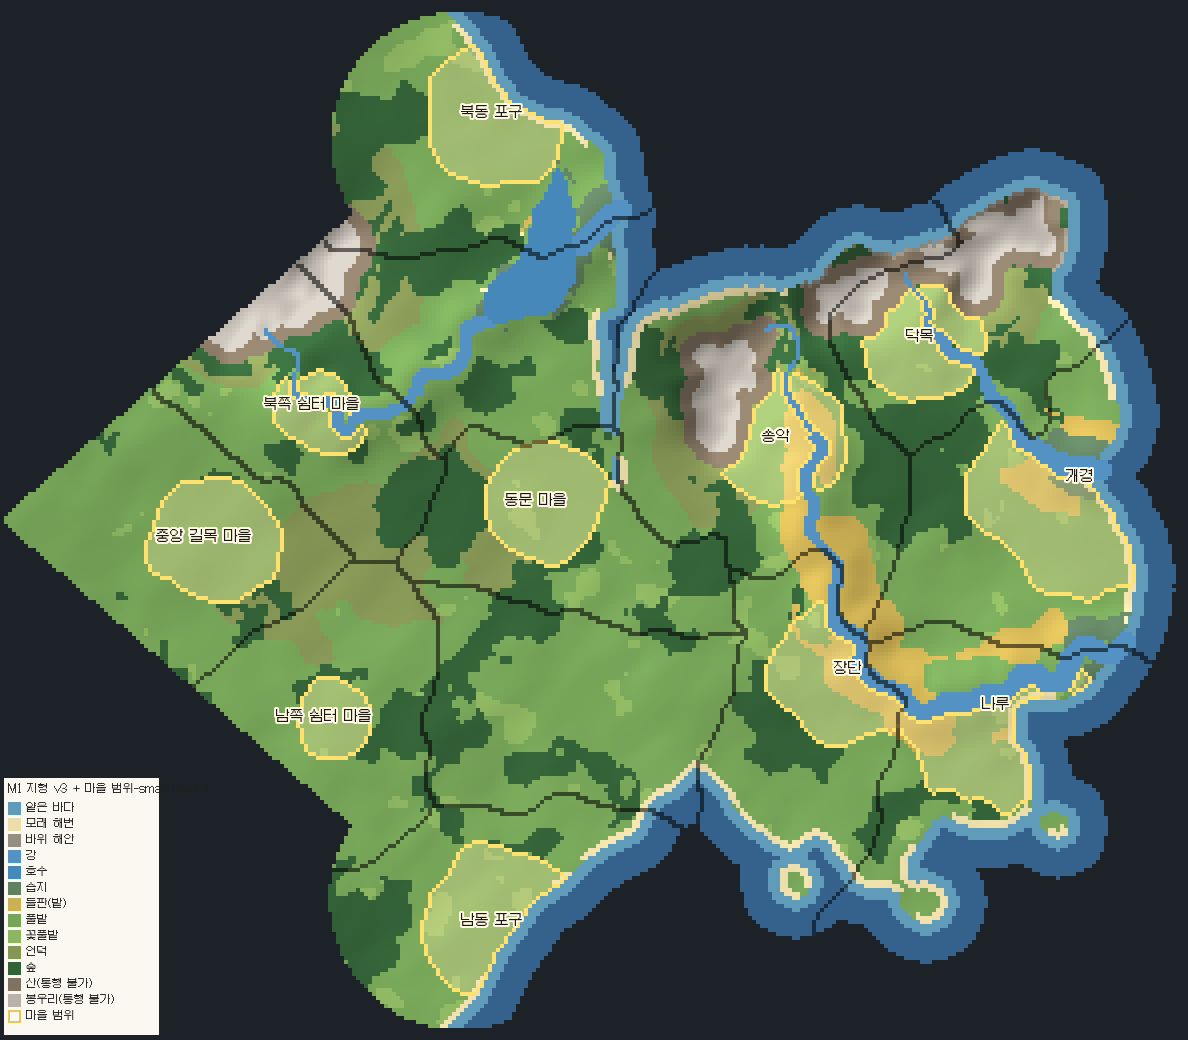
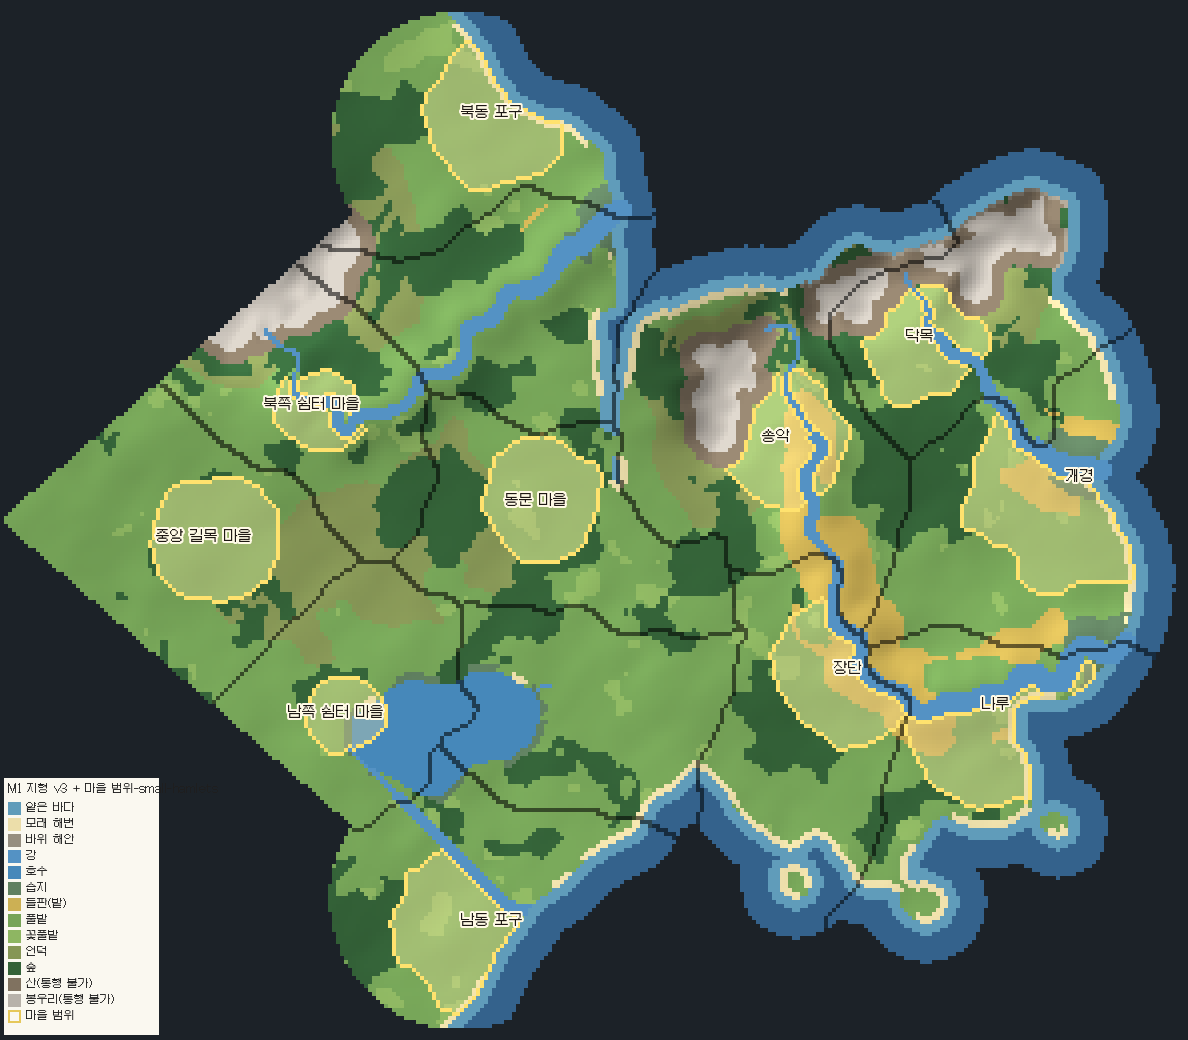
M1 v4: large southern lake with bays, inflow stream and outlet to the sea
Claude-Session: https://claude.ai/code/session_01LeGdCGGAkPbpRa1d2kF6Yd

diff --git a/Tools/WorldLayout/terrain_v3.py b/Tools/WorldLayout/terrain_v3.py
@@ -31,7 +31,7 @@ COLORS={DEEP:(52,98,140),SHALLOW:(96,156,186),SAND:(236,222,170),ROCKCOAST:(150,
         FOREST:(52,98,56),MOUNTAIN:(128,114,96),PEAK:(184,178,170),VILLAGE:(210,190,140),VOID:(28,34,40),LAKE:(70,136,186)}
 BLOCKED={DEEP,SHALLOW,RIVER,MOUNTAIN,PEAK,ROCKCOAST,LAKE}
 # 호수(세계 좌표 중심, 대략 면적): 남쪽 쉼터 마을 북쪽(2026-10-27 은샘 제안)
-LAKES=[dict(label='중앙 호수',area=480)]   # 위치는 지형에서 고른다(가장 낮은 분지)
+LAKES=[dict(label='남쪽 큰 호수',area=950,box=(95,22,150,72))]   # 이 범위(x0,y0,x1,y1) 안에서 가장 낮은 내륙 분지를 고른다
 # 마을 목표 면적(칸): 수도는 크게, 중앙 마을은 장터 광장·이벤트 마당·시설이 들어갈 만큼(WorldLayout 3절 약 2,060)
 VILLAGE_AREA={'goryeo/개경':1100,'goryeo/장단':700,'goryeo/나루':700,'goryeo/송악':650,'goryeo/닥목':600,
               'east/동문 마을':1400,'east/북동 포구':1400,'east/남동 포구':1400,'east/중앙 길목 마을':1500}
@@ -220,39 +220,60 @@ def build(layout):
         my,mx=idx(*ri['mouth']);yy,xx=np.ogrid[:H,:W];mouth_zone|=((yy-my)**2+(xx-mx)**2)<16**2
     t[L&mouth_zone&(d_river<=5)&(d_river>0)&(elev<.35)&(marsh_n>.45)]=MARSH
     t[river]=RIVER
-    # 호수: 중앙 동쪽에서 가장 낮은 분지를 찾아, 낮은 땅부터 물을 채우듯 넓힌다(호숫가가 등고선을 따름).
-    #       강과 떨어져 있으면 가장 낮은 물가에서 강까지 작은 개울로 흘려보낸다.
+    # 호수: 중앙 동쪽 남부에서 가장 낮은 내륙 분지를 찾아, 낮은 땅부터 물을 채우듯 넓힌다(호숫가가 등고선을 따름).
+    #       둘레 언덕에서 흘러드는 개울 하나, 가장 낮은 물가에서 바다로 빠지는 개울 하나를 만든다.
     lake=np.zeros((H,W),bool);E=ndimage.gaussian_filter(elev,3)
     east=np.zeros((H,W),bool)
     for i,k in enumerate(keys):
         if k.startswith('east/'):east|=mapid==i
     yy_,xx_=np.ogrid[:H,:W];far=np.ones((H,W),bool)
     for town in layout.data['towns']:
-        ty,tx=idx(int(town['position'][0]),int(town['position'][1]));far&=((yy_-ty)**2+(xx_-tx)**2)>24**2
+        ty,tx=idx(int(town['position'][0]),int(town['position'][1]));far&=((yy_-ty)**2+(xx_-tx)**2)>22**2
     inner=ndimage.binary_erosion(east,iterations=6)   # 담당 경계에 잘린 직선 호숫가가 생기지 않게
-    ok=inner&land&far&(to_sea>16)&(d_river>3)&~np.isin(t,[MOUNTAIN,PEAK])
     for lk in LAKES:
-        seed=np.unravel_index(int(np.argmin(np.where(ok,E,np.inf))),E.shape)
-        grow=inner&land&far&(to_sea>10)&~np.isin(t,[MOUNTAIN,PEAK])
-        got={seed};q=[(E[seed],seed)];seen={seed}
-        while q and len(got)<lk['area']:
-            _,pp=heapq.heappop(q);got.add(pp)
-            for dy,dx in ((1,0),(-1,0),(0,1),(0,-1)):
-                n=(pp[0]+dy,pp[1]+dx)
-                if n in seen or not(0<=n[0]<H and 0<=n[1]<W) or not grow[n]:continue
-                seen.add(n);heapq.heappush(q,(E[n]+.02*(marsh_n[n]-.5),n))
-        m=np.zeros((H,W),bool)
-        for pp in got:m[pp]=True
-        m=ndimage.binary_closing(ndimage.binary_opening(m),iterations=2)&grow
+        bx0,by0,bx1,by1=lk['box'];south=((xx_+X0)>=bx0)&((xx_+X0)<bx1)&((yy_+Y0)>=by0)&((yy_+Y0)<by1)
+        # 범위 안쪽(가장자리에서 10칸 이상)에서 가장 낮은 곳을 중심으로
+        core=south&inner&land&far&(to_sea>14)&(d_river>6)&~np.isin(t,[MOUNTAIN,PEAK])
+        core&=((xx_+X0)>=bx0+10)&((xx_+X0)<bx1-10)&((yy_+Y0)>=by0+10)&((yy_+Y0)<by1-10)
+        seed=np.unravel_index(int(np.argmin(np.where(core,E,np.inf))),E.shape)
+        # 모양: 길쭉한 타원에 만·곶을 만드는 굴곡(각도에 따른 낮은 주파수 사인 합)
+        r0=math.sqrt(lk['area']/math.pi);asp=1.55;ang=rng.uniform(0,math.pi)
+        ph=rng.uniform(0,2*math.pi,4);amp=(.16,.10,.06,.04)
+        dy_=yy_-seed[0];dx_=xx_-seed[1]
+        u=dx_*math.cos(ang)+dy_*math.sin(ang);v=-dx_*math.sin(ang)+dy_*math.cos(ang)
+        theta=np.arctan2(v,u);rr_=np.sqrt((u/math.sqrt(asp))**2+(v*math.sqrt(asp))**2)
+        wob=1+sum(a_*np.sin((k_+2)*theta+ph[k_]) for k_,a_ in enumerate(amp))+.18*(marsh_n-.5)
+        m=(rr_<r0*wob)&land&inner&~river
+        m=ndimage.binary_closing(ndimage.binary_opening(m),iterations=2)&land&inner&~river
+        lab,n_=ndimage.label(m)
+        if n_>1:m=lab==(1+int(np.argmax(ndimage.sum(np.ones_like(lab),lab,range(1,n_+1)))))
         lake|=m;lk['cells']=int(m.sum());lk['center']=[int(seed[1]+X0),int(seed[0]+Y0)]
-        if not (ndimage.binary_dilation(m,iterations=2)&river).any():
-            rim=ndimage.binary_dilation(m)&~m&land
-            r0=tuple(np.argwhere(rim)[np.argmin(E[rim])])
-            ry,rx=np.nonzero(river);k_=int(np.argmin((ry-r0[0])**2+(rx-r0[1])**2))
-            stream=astar(r0,(int(ry[k_]),int(rx[k_])),1+8*elev,blocked=None,eight=False)
-            for pp in stream:
-                if land[pp]:river[pp]=True
-            lk['outletCells']=len(stream)
+        cost=1+10*elev
+        # 나가는 개울: 가장 낮은 물가 → 가장 가까운 바다
+        rim=ndimage.binary_dilation(m)&~m&land
+        r0=tuple(np.argwhere(rim)[np.argmin(E[rim])])
+        sy,sx=np.nonzero(sea);k_=int(np.argmin((sy-r0[0])**2+(sx-r0[1])**2))
+        out=astar(r0,(int(sy[k_]),int(sx[k_])),cost,blocked=np.isin(t,[MOUNTAIN,PEAK]),eight=True)
+        # 들어오는 개울: 호수 반대편 둘레 언덕 → 호수
+        cy,cx=np.argwhere(m).mean(0);oy,ox=r0
+        vy,vx=cy-oy,cx-ox;L=math.hypot(vy,vx) or 1
+        ty_,tx_=int(cy+vy/L*28),int(cx+vx/L*28)
+        hill=np.argwhere(east&land&~m&~np.isin(t,[MOUNTAIN,PEAK])&(((yy_-ty_)**2+(xx_-tx_)**2)<12**2))
+        inflow=[]
+        if len(hill):
+            h0=tuple(hill[np.argmax(elev[tuple(hill.T)])])
+            mc=np.argwhere(m);m0=tuple(mc[np.argmin(((mc-np.array(h0))**2).sum(1))])
+            inflow=astar(h0,m0,cost,blocked=np.isin(t,[MOUNTAIN,PEAK]),eight=True)
+        for path,width in ((out,1.2),(inflow,.8)):
+            pts=smooth_path(path,np.zeros((H,W),bool)) if len(path)>5 else path
+            for i_,(y,x) in enumerate(pts):
+                rad=width*(.7+.5*i_/max(1,len(pts))) if path is out else width
+                rr=int(math.ceil(rad))
+                for dy in range(-rr,rr+1):
+                    for dx in range(-rr,rr+1):
+                        yy2,xx2=y+dy,x+dx
+                        if dy*dy+dx*dx<=rad*rad and 0<=yy2<H and 0<=xx2<W and land[yy2,xx2] and not m[yy2,xx2]:river[yy2,xx2]=True
+        lk['outletCells']=len(out);lk['inflowCells']=len(inflow)
     t[river]=RIVER
     d_river=ndimage.distance_transform_edt(~(river|lake))
     shore=ndimage.binary_dilation(lake,iterations=2)&land&~lake&~river
